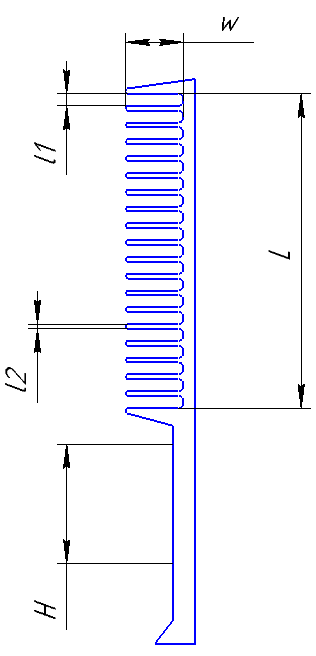
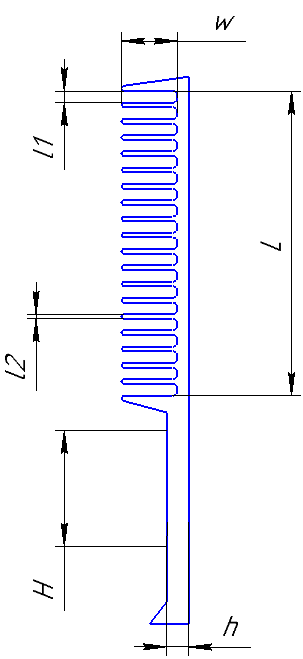
features(): has been added new parameter HandleWidth

diff --git a/src/HairbrushPlugin.View/MainForm.Designer.cs b/src/HairbrushPlugin.View/MainForm.Designer.cs
@@ -30,6 +30,9 @@
         {
             var resources = new System.ComponentModel.ComponentResourceManager(typeof(MainForm));
             LeftPanel = new Panel();
+            label6 = new Label();
+            label7 = new Label();
+            HandleWidthTextBox = new TextBox();
             label5 = new Label();
             label4 = new Label();
             label3 = new Label();
@@ -74,6 +77,9 @@
             // LeftPanel
             // 
             LeftPanel.BackColor = SystemColors.Window;
+            LeftPanel.Controls.Add(label6);
+            LeftPanel.Controls.Add(label7);
+            LeftPanel.Controls.Add(HandleWidthTextBox);
             LeftPanel.Controls.Add(label5);
             LeftPanel.Controls.Add(label4);
             LeftPanel.Controls.Add(label3);
@@ -97,10 +103,40 @@
             LeftPanel.Size = new Size(327, 576);
             LeftPanel.TabIndex = 0;
             // 
+            // label6
+            // 
+            label6.AutoSize = true;
+            label6.Location = new Point(189, 98);
+            label6.Name = "label6";
+            label6.Size = new Size(63, 15);
+            label6.TabIndex = 30;
+            label6.Text = "10 - 30 мм";
+            label6.TextChanged += ProcessingTextChanges;
+            label6.MouseEnter += ProcessingMouseEnters;
+            // 
+            // label7
+            // 
+            label7.AutoSize = true;
+            label7.Location = new Point(9, 77);
+            label7.Name = "label7";
+            label7.Size = new Size(98, 15);
+            label7.TabIndex = 28;
+            label7.Text = "Ширина ручки h";
+            // 
+            // HandleWidthTextBox
+            // 
+            HandleWidthTextBox.Anchor = AnchorStyles.Top | AnchorStyles.Left | AnchorStyles.Right;
+            HandleWidthTextBox.Location = new Point(9, 95);
+            HandleWidthTextBox.Name = "HandleWidthTextBox";
+            HandleWidthTextBox.Size = new Size(174, 23);
+            HandleWidthTextBox.TabIndex = 29;
+            HandleWidthTextBox.TextChanged += ProcessingTextChanges;
+            HandleWidthTextBox.MouseEnter += ProcessingMouseEnters;
+            // 
             // label5
             // 
             label5.AutoSize = true;
-            label5.Location = new Point(189, 260);
+            label5.Location = new Point(189, 316);
             label5.Name = "label5";
             label5.Size = new Size(51, 15);
             label5.TabIndex = 27;
@@ -109,7 +145,7 @@
             // label4
             // 
             label4.AutoSize = true;
-            label4.Location = new Point(189, 206);
+            label4.Location = new Point(189, 262);
             label4.Name = "label4";
             label4.Size = new Size(57, 15);
             label4.TabIndex = 26;
@@ -118,7 +154,7 @@
             // label3
             // 
             label3.AutoSize = true;
-            label3.Location = new Point(189, 152);
+            label3.Location = new Point(189, 208);
             label3.Name = "label3";
             label3.Size = new Size(63, 15);
             label3.TabIndex = 25;
@@ -127,7 +163,7 @@
             // label2
             // 
             label2.AutoSize = true;
-            label2.Location = new Point(189, 98);
+            label2.Location = new Point(189, 154);
             label2.Name = "label2";
             label2.Size = new Size(42, 15);
             label2.TabIndex = 24;
@@ -154,7 +190,7 @@
             // 
             // WidthOfTeethTextBox
             // 
-            WidthOfTeethTextBox.Location = new Point(9, 257);
+            WidthOfTeethTextBox.Location = new Point(9, 313);
             WidthOfTeethTextBox.Name = "WidthOfTeethTextBox";
             WidthOfTeethTextBox.Size = new Size(175, 23);
             WidthOfTeethTextBox.TabIndex = 21;
@@ -213,7 +249,7 @@
             // 
             // DistanceBetweenTeethTextBox
             // 
-            DistanceBetweenTeethTextBox.Location = new Point(9, 203);
+            DistanceBetweenTeethTextBox.Location = new Point(9, 259);
             DistanceBetweenTeethTextBox.Name = "DistanceBetweenTeethTextBox";
             DistanceBetweenTeethTextBox.Size = new Size(175, 23);
             DistanceBetweenTeethTextBox.TabIndex = 20;
@@ -222,7 +258,7 @@
             // 
             // LengthOfTeethTextBox
             // 
-            LengthOfTeethTextBox.Location = new Point(9, 149);
+            LengthOfTeethTextBox.Location = new Point(9, 205);
             LengthOfTeethTextBox.Name = "LengthOfTeethTextBox";
             LengthOfTeethTextBox.Size = new Size(175, 23);
             LengthOfTeethTextBox.TabIndex = 19;
@@ -242,7 +278,7 @@
             // 
             NumberOfTeethTextBox.Anchor = AnchorStyles.Top | AnchorStyles.Left | AnchorStyles.Right;
             NumberOfTeethTextBox.BackColor = SystemColors.Window;
-            NumberOfTeethTextBox.Location = new Point(9, 95);
+            NumberOfTeethTextBox.Location = new Point(9, 151);
             NumberOfTeethTextBox.Name = "NumberOfTeethTextBox";
             NumberOfTeethTextBox.Size = new Size(174, 23);
             NumberOfTeethTextBox.TabIndex = 18;
@@ -252,7 +288,7 @@
             // EmailLabel
             // 
             EmailLabel.AutoSize = true;
-            EmailLabel.Location = new Point(9, 75);
+            EmailLabel.Location = new Point(9, 131);
             EmailLabel.Margin = new Padding(3, 10, 3, 0);
             EmailLabel.Name = "EmailLabel";
             EmailLabel.Size = new Size(93, 15);
@@ -272,7 +308,7 @@
             // PhoneNumberLabel
             // 
             PhoneNumberLabel.AutoSize = true;
-            PhoneNumberLabel.Location = new Point(9, 131);
+            PhoneNumberLabel.Location = new Point(9, 187);
             PhoneNumberLabel.Margin = new Padding(3, 10, 3, 0);
             PhoneNumberLabel.Name = "PhoneNumberLabel";
             PhoneNumberLabel.Size = new Size(93, 15);
@@ -282,7 +318,7 @@
             // VKLable
             // 
             VKLable.AutoSize = true;
-            VKLable.Location = new Point(9, 239);
+            VKLable.Location = new Point(9, 295);
             VKLable.Margin = new Padding(3, 10, 3, 0);
             VKLable.Name = "VKLable";
             VKLable.Size = new Size(103, 15);
@@ -292,7 +328,7 @@
             // DateOfBirthLabel
             // 
             DateOfBirthLabel.AutoSize = true;
-            DateOfBirthLabel.Location = new Point(9, 185);
+            DateOfBirthLabel.Location = new Point(9, 241);
             DateOfBirthLabel.Margin = new Padding(3, 10, 3, 0);
             DateOfBirthLabel.Name = "DateOfBirthLabel";
             DateOfBirthLabel.Size = new Size(170, 15);
@@ -327,7 +363,7 @@
             // HairbrushPictureBox
             // 
             HairbrushPictureBox.Dock = DockStyle.Fill;
-            HairbrushPictureBox.Image = View.Properties.Resources.Hairbrush;
+            HairbrushPictureBox.Image = Properties.Resources.Hairbrush;
             HairbrushPictureBox.InitialImage = (Image)resources.GetObject("HairbrushPictureBox.InitialImage");
             HairbrushPictureBox.Location = new Point(0, 0);
             HairbrushPictureBox.Name = "HairbrushPictureBox";
@@ -449,5 +485,8 @@
         private Label label3;
         private Label label2;
         private Label label1;
+        private Label label6;
+        private Label label7;
+        private TextBox HandleWidthTextBox;
     }
 }

diff --git a/src/HairbrushPlugin.Wrapper/HairbrushBuilder.cs b/src/HairbrushPlugin.Wrapper/HairbrushBuilder.cs
@@ -15,12 +15,6 @@
         private const double OuterWall = 10;
 
         /// <summary>
-        /// Ширина ручки.
-        /// </summary>
-        // TODO: RSDN
-        private const double handleWidth = OuterWall * 2;
-
-        /// <summary>
         /// Объект KompasWrapper.
         /// </summary>
         private readonly KompasWrapper _wrapper = new ();
@@ -38,6 +32,7 @@
             var lengthOfTeeth = parameters.Parameters[ParameterType.LengthOfTeeth].Value;
             var distanceBetweenTeeth = parameters.Parameters[ParameterType.DistanceBetweenTeeth].Value;
             var widthOfTeeth = parameters.Parameters[ParameterType.WidthOfTeeth].Value;
+            var handleWidth = parameters.Parameters[ParameterType.HandleWidth].Value;
             var lengthOfBase = (numberOfTeeth * (distanceBetweenTeeth + widthOfTeeth))
                 + distanceBetweenTeeth + ((2 * widthOfTeeth) + 2);
             var xPosition = (lengthOfTeeth + OuterWall) / 2;
@@ -68,7 +63,8 @@
                 handleLength,
                 xPosition,
                 lengthOfTeeth,
-                widthOfTeeth);
+                widthOfTeeth,
+                handleWidth);
 
             document2d.ksEndObj();
             hairbrushSketch.EndEdit();
@@ -196,7 +192,8 @@
             double handleLength,
             double xPosition,
             double lengthOfTeeth,
-            double widthOfTeeth)
+            double widthOfTeeth,
+            double handleWidth)
         {
             document2d.ksPoint(
                     xPosition - OuterWall,

diff --git a/src/HairbrushPlugin.View/MainForm.cs b/src/HairbrushPlugin.View/MainForm.cs
@@ -39,12 +39,12 @@ namespace HairbrushPlugin.View
         /// <summary>
         /// Параметры для расчёта характеристик расчёски.
         /// </summary>
-        private readonly HairbrushParameters _parameters = new ();
+        private readonly HairbrushParameters _parameters = new();
 
         /// <summary>
         /// Объект для построения расчёски.
         /// </summary>
-        private readonly HairbrushBuilder _hairbrushBuilder = new ();
+        private readonly HairbrushBuilder _hairbrushBuilder = new();
 
         /// <summary>
         /// Конструктор класса MainForm.
@@ -62,6 +62,8 @@ namespace HairbrushPlugin.View
         private void TextBoxesFilling()
         {
             HandleLengthTextBox.Text = _parameters.Parameters[ParameterType.HandleLength]
+                .Value.ToString();
+            HandleWidthTextBox.Text = _parameters.Parameters[ParameterType.HandleWidth]
                 .Value.ToString();
             NumberOfTeethTextBox.Text = _parameters.Parameters[ParameterType.NumberOfTeeth]
                 .Value.ToString();

diff --git a/src/HairbrushPlugin.Model/HairbrushParameters.cs b/src/HairbrushPlugin.Model/HairbrushParameters.cs
@@ -12,6 +12,7 @@
             new Dictionary<ParameterType, Parameter>
             {
                 { ParameterType.HandleLength, new Parameter(50, 200, 100) },
+                { ParameterType.HandleWidth, new Parameter(10, 30, 20) },
                 { ParameterType.NumberOfTeeth, new Parameter(20, 50, 25) },
                 { ParameterType.LengthOfTeeth, new Parameter(20, 50, 30) },
                 { ParameterType.DistanceBetweenTeeth, new Parameter(1, 10, 5) },

diff --git a/src/HairbrushPlugin.Model/ParameterType.cs b/src/HairbrushPlugin.Model/ParameterType.cs
@@ -28,6 +28,11 @@
         /// <summary>
         /// Ширина зубьев.
         /// </summary>
-        WidthOfTeeth
+        WidthOfTeeth,
+
+        /// <summary>
+        /// Ширина ручки.
+        /// </summary>
+        HandleWidth
     }
 }
